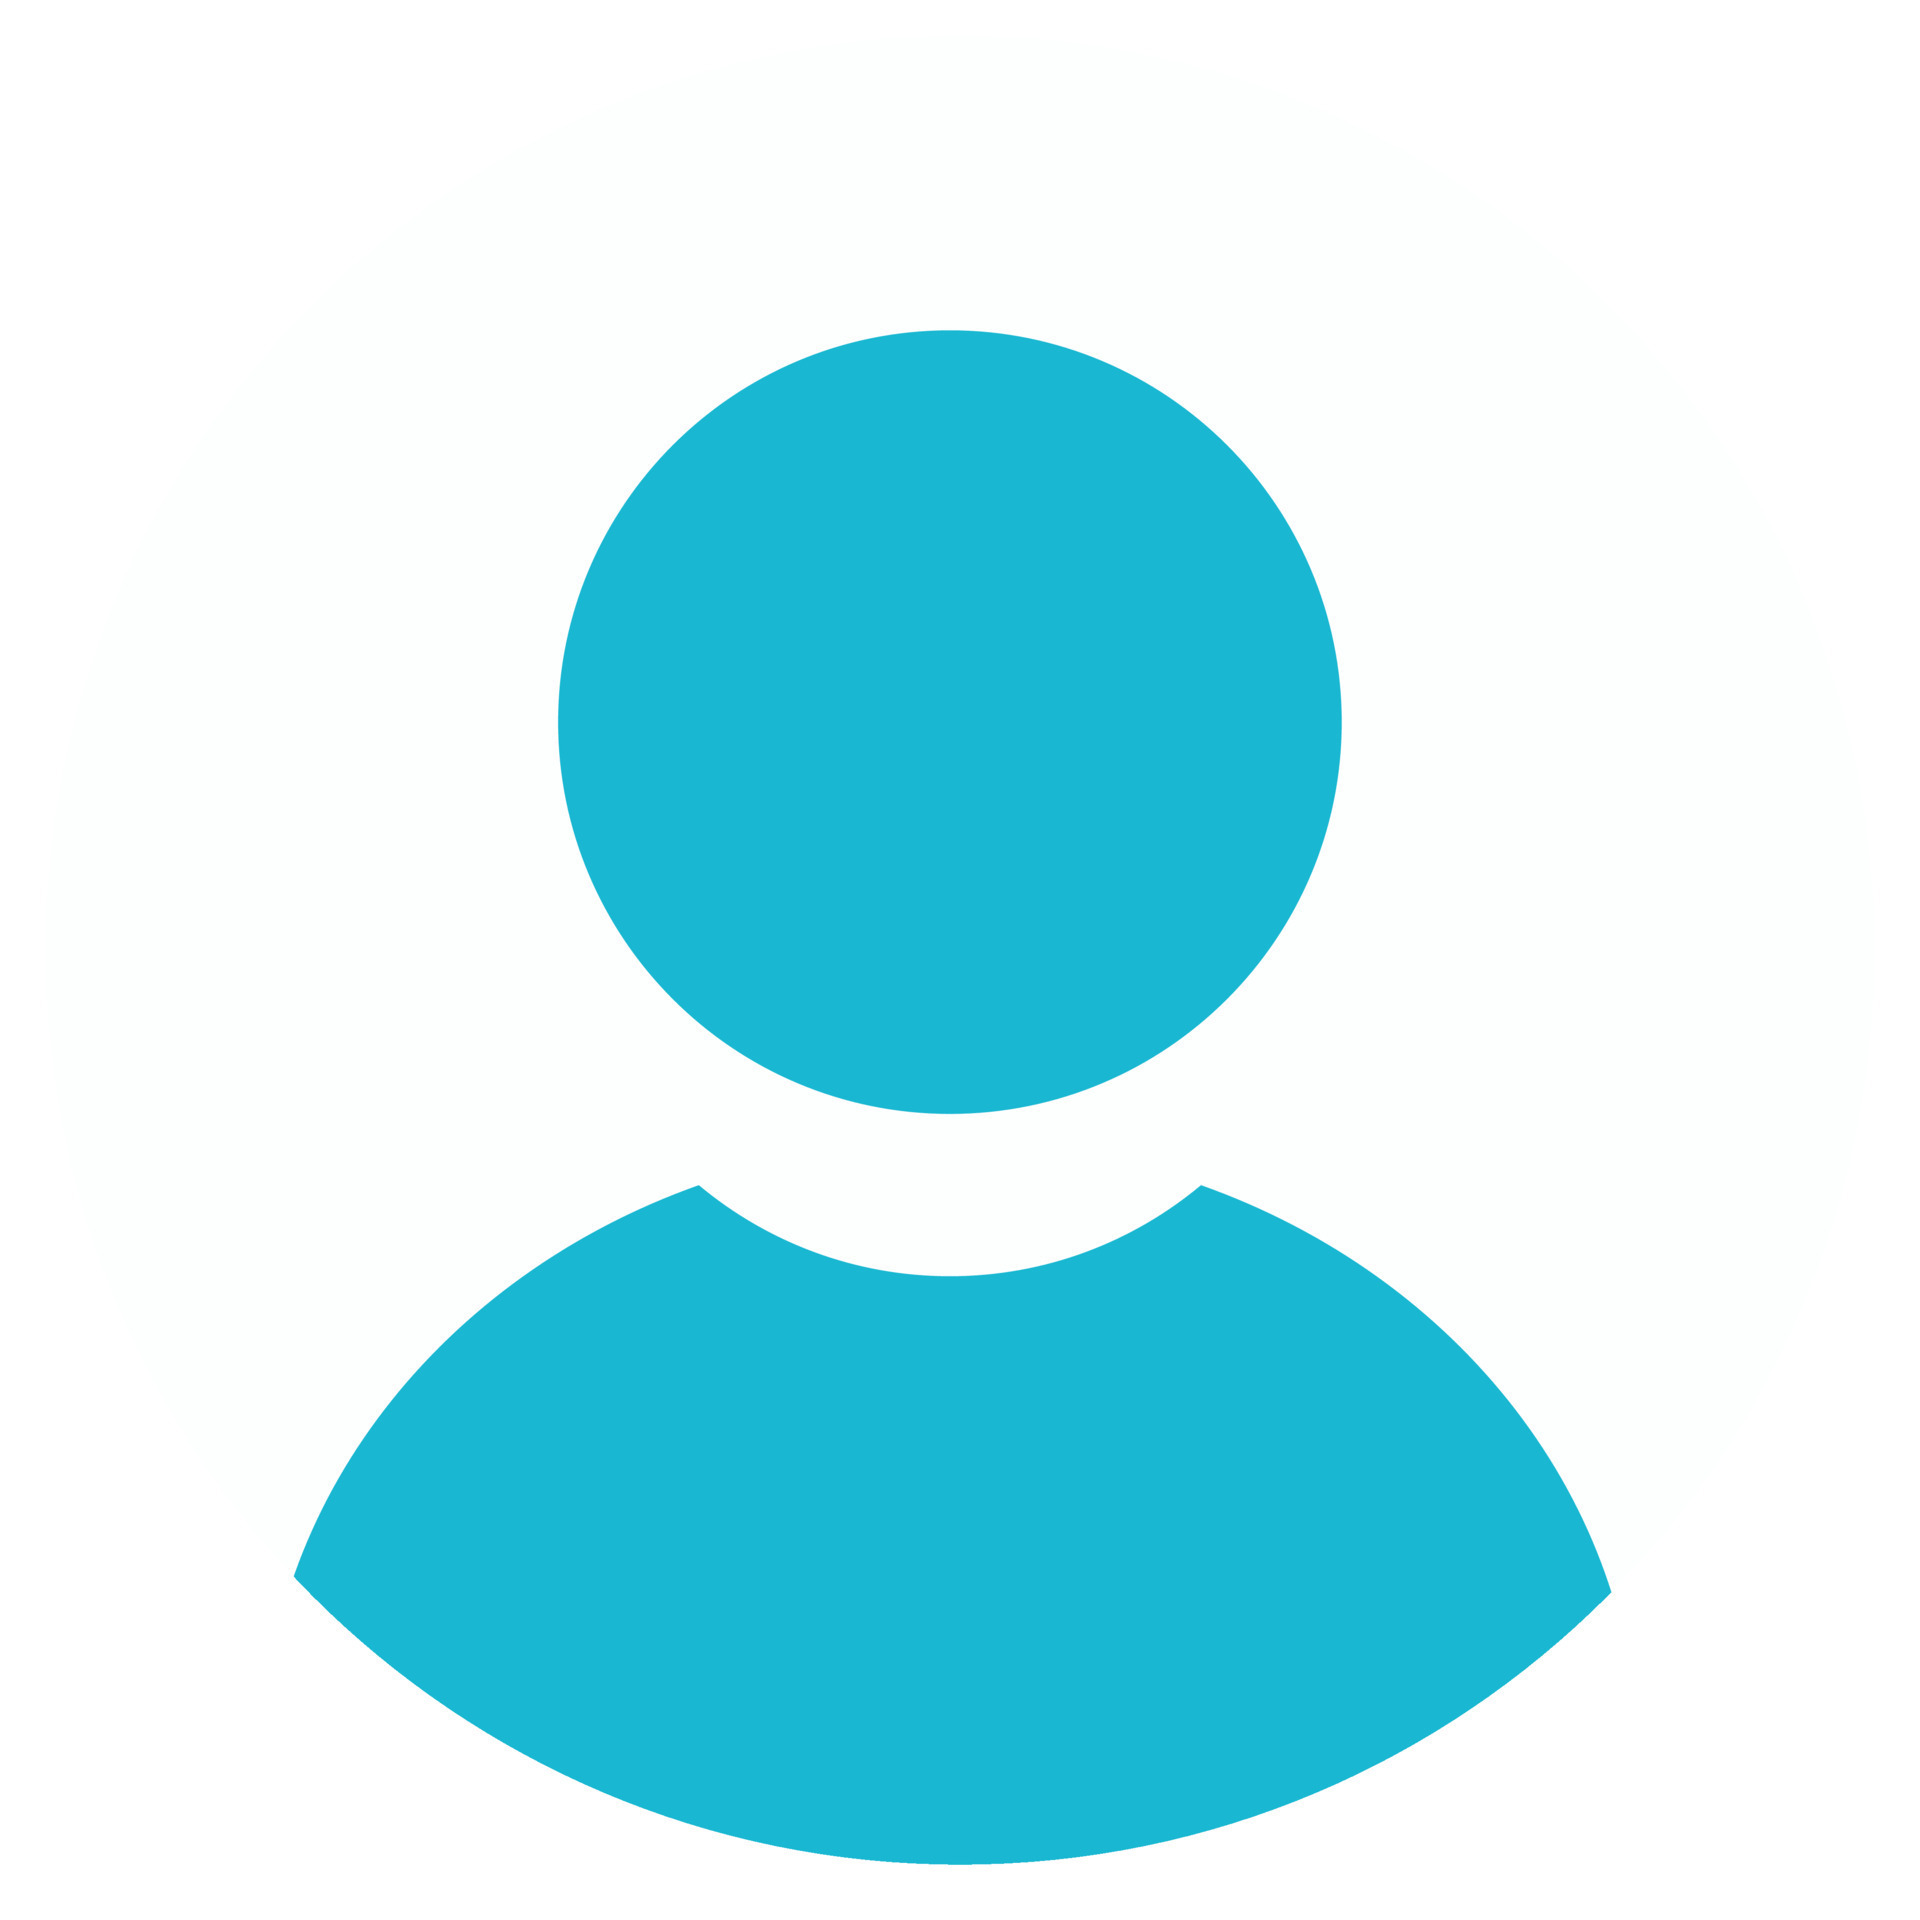
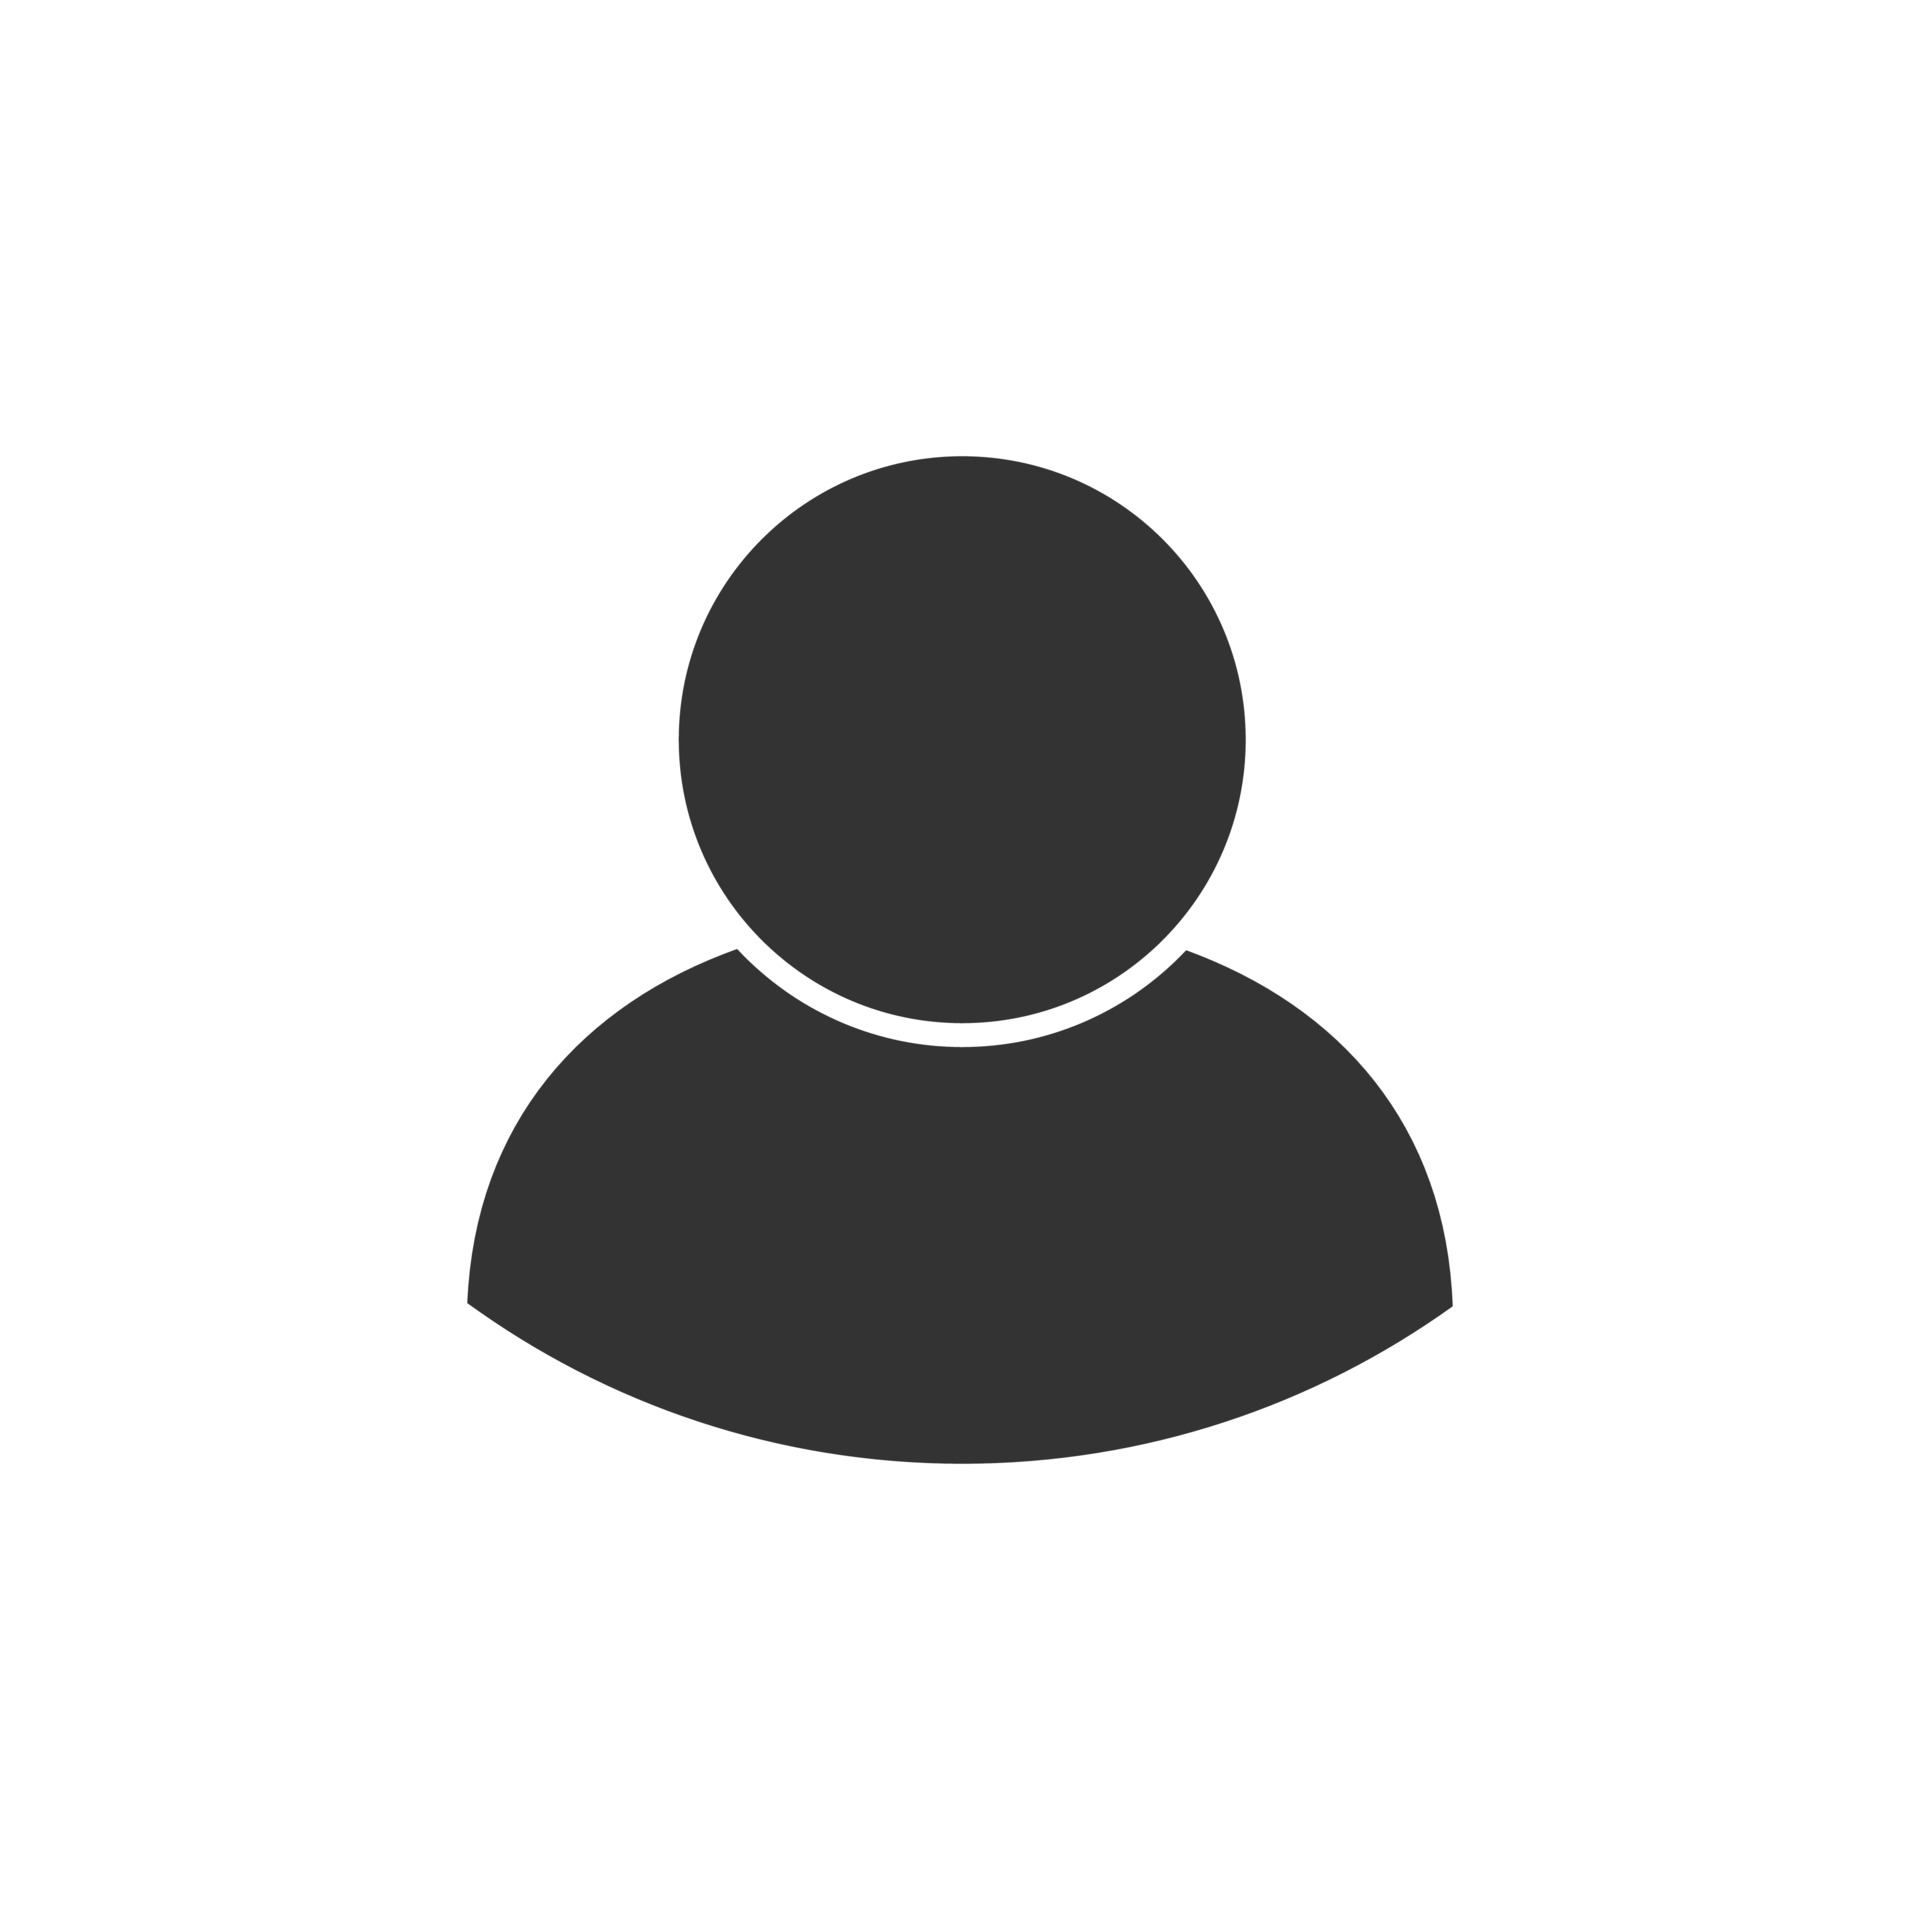
updated default profile image and deleted unnecessary code here and there

diff --git a/backend/src/controller/FeedbackController.ts b/backend/src/controller/FeedbackController.ts
@@ -18,8 +18,6 @@ export const submitFeedback:RequestHandler = async (req, res) => {
         }
 
 
-        // Additional checks can be made here,
-
         const feedback = {
             givenBy: user.userId,  // or any other user identifier included in the token
             // reviewer : req.body.reviewer,
@@ -51,82 +49,12 @@ export const getPremiumUpgradeReviews: RequestHandler = async (req, res) => {
         const reviews = await PlatformFeedback.find({ category: 'Premium Upgrade' })
             .populate('givenBy'); // populate the givenBy field with the entire Account object
             console.log('reviewes' + reviews)
-        // const transformedReviews = reviews.map(review => ({
-        //     _id: review._id,
-        //     title: review.title,
-        //     rating: review.rating,
-        //     content: review.content,
-        //     category: review.category,
-        //     givenBy: {
-        //         _id: review.givenBy._id,
-        //         name: `${review.givenBy.firstName} ${review.givenBy.lastName}`, // Combine firstName and lastName
-        //         email: review.givenBy.email,
-        //         profileImageUrl: review.givenBy.profileImageUrl,
-        //         location: review.givenBy.location,
-        //         country: review.givenBy.country,
-        //         postal: review.givenBy.postal,
-        //         // Include other fields you need from the givenBy object
-        //     },
-        //     createdAt: review.createdAt,
-        //     updatedAt: review.updatedAt
-        // }));
         res.status(200).json(reviews);
     } catch (error) {
         console.error("Failed to fetch reviews:", error);
         res.status(500).json({ error: "Internal server error", message: "Could not fetch reviews." });
     }
 };
-
-// // find review based on jobId and reviewer
-// export const findExistingReview: RequestHandler = async(req, res) => {
-//     const user = (req as any).user;
-//     const { jobId } = req.params;
-//     console.log("job id for finding request: ", jobId)
-//     const userId = user.userId; // Assuming you're using some authentication middleware
-//
-//     try{
-//         const review = await Review.findOne({ job: jobId, reviewer: userId });
-//         if (review) {
-//             return res.json({ success: true, review: review });
-//          } else {
-//            return res.json({ success: false });
-//         }
-//     } catch (error) {
-//         res.status(500).json({ success: false, message: "Server error", error });
-//     }
-// }
-
-
-
-// delete review
-// export const deleteReview: RequestHandler = async (req, res) => {
-//     try {
-//         const user = (req as any).user;
-//         if (!user) {
-//             return res.status(403).json({error: "Authorization failed."});
-//         }
-//
-//         const { reviewId } = req.params;
-//
-//         const review = await Review.findById(reviewId);
-//         if (!review) {
-//             return res.status(404).json({error: "Review not found."});
-//         }
-//
-//         // Ensure that the current user is the reviewer
-//         if (review.reviewer.toString() !== user.userId) {
-//             return res.status(403).json({error: "Unauthorized to delete this review."});
-//         }
-//
-//
-//
-//
-//         res.status(200).json({message: "Review deleted successfully."});
-//     } catch (error) {
-//         console.error("Failed to delete review:", error);
-//         res.status(500).json({error: "Internal server error", message: "Could not delete review."});
-//     }
-// };
 
 
 

diff --git a/backend/src/controller/ReviewController.ts b/backend/src/controller/ReviewController.ts
@@ -1,9 +1,4 @@
-import jwt from 'jsonwebtoken';
-import Account from "../models/account";
 import { RequestHandler } from "express";
-import * as dotenv from 'dotenv'
-import bcrypt from 'bcrypt';
-import { ERRORS } from "../helpers/authHelper";
 import Review from "../models/review";
 import Notification from "../models/notification"
 import Job from "../models/job";
@@ -12,7 +7,6 @@ import mongoose from "mongoose";
 //
 //
 
-// todo (i think its done): sanity check: (add after job and request controllers are done)
 // the reviewer has to have used the service (or is the provider)
 // no other reviews has existed for this job
 export const submitReview: RequestHandler = async (req, res) => {
@@ -278,35 +272,6 @@ export const getAllReviewsByOffering: RequestHandler = async (req, res) => {
 
             return res.json({ review: reviews });
         }
-        // else {
-        //     return res.json({ success: false });
-        // }
-
-        // Fetch profile images
-        // const profileImagePromises = reviews.map(async (review) => {
-        //     const reviewer = review.reviewer as mongoose.Document & { profileImageId: string };
-        //     let profileImageUrl = null;
-        //
-        //     if (reviewer && reviewer.profileImageId) {
-        //         const profileImageResponse = await Account.findById(reviewer._id).select('profileImageUrl');
-        //         profileImageUrl = profileImageResponse?.profileImageUrl || null;
-        //     }
-        //
-        //     return {
-        //         ...review.toObject(),
-        //         reviewer: {
-        //             ...reviewer.toObject(),
-        //             profileImageUrl: profileImageUrl,
-        //         },
-        //     };
-        // });
-
-        // const reviewsWithProfileImages = await Promise.all(profileImagePromises);
-        //
-        // if (reviewsWithProfileImages) {
-        //     return res.json({ review: reviewsWithProfileImages });
-        // }
-
 
     } catch (error) {
         res.status(500).json({ success: false, message: "Server error", error });

diff --git a/backend/src/controller/TimeSlotController.ts b/backend/src/controller/TimeSlotController.ts
@@ -1,7 +1,7 @@
-import { RequestHandler } from 'express';
+import {RequestHandler} from 'express';
 import moment from 'moment';
-import Timeslot, { ITimeslot } from '../models/timeslot';
-import mongoose, { ClientSession, Types } from "mongoose";
+import Timeslot, {ITimeslot} from '../models/timeslot';
+import mongoose, {ClientSession, Types} from "mongoose";
 
 // Custom error class for Timeslot-related errors
 class TimeslotError extends Error {
@@ -794,8 +794,7 @@ export async function cancelTimeslotDirect(timeslotId: String | Types.ObjectId) 
         timeslot.requestId = undefined;
         timeslot.jobId = undefined;
 
-        const updatedTimeslot = await timeslot.save();
-        return updatedTimeslot;
+        return await timeslot.save();
     } catch (error) {
         console.error("Failed to cancel timeslot:", error);
         throw error;

diff --git a/frontend/src/components/tableComponents/GenericTable.tsx b/frontend/src/components/tableComponents/GenericTable.tsx
@@ -1,4 +1,4 @@
-import React, { useState } from 'react';
+import React from 'react';
 import {
     Table,
     TableBody,
@@ -6,9 +6,7 @@ import {
     TableContainer,
     TableHead,
     TableRow,
-    Paper,
     TablePagination,
-    Container,
     Tooltip, IconButton
 } from '@mui/material';
 import GenericTableRow from "./GenericTableRow";
@@ -55,12 +53,6 @@ function GenericTable({data, count, page, setPage, rowsPerPage, setRowsPerPage, 
         setRowsPerPage(parseInt(event.target.value, 10));
         setPage(0); // Reset page to zero after row change
     };
-
-    const handleToggleMediaCard = (req: Item | null) => {
-        setSelectedItem(req);
-        setShowMediaCard(req !== null);
-    };
-
 
 
     return (

diff --git a/backend/src/controller/ServiceConroller.ts b/backend/src/controller/ServiceConroller.ts
@@ -8,7 +8,7 @@ import review from '../models/review';
 import job from '../models/job';
 
 
-export const addService = async (req: Request, res: Response, next: NextFunction) => {
+export const addService = async (req: Request, res: Response) => {
     try {
         const userId = (req as any).user.userId;
         console.log("User id", userId);
@@ -85,7 +85,7 @@ export const addService = async (req: Request, res: Response, next: NextFunction
 }
 
 
-export const editService = async (req: Request, res: Response, next: NextFunction) => {
+export const editService = async (req: Request, res: Response) => {
     try {
         const userId = (req as any).user.userId;
         const serviceId = req.params.id;

diff --git a/backend/src/controller/RequestController.ts b/backend/src/controller/RequestController.ts
@@ -306,7 +306,7 @@ export const handleChangeTimeslot: RequestHandler = async (req, res, next) => {
 
     try {
         // book the new timeslot
-        const hi = await bookTimeslot(req, res, next);
+        const bookedTimeslot = await bookTimeslot(req, res, next);
 
         // update the request status to pending again
         const updatedRequest = await ServiceRequest.findByIdAndUpdate(requestId, { requestStatus: RequestStatus.pending }, { new: true, upsert: true, strict: true });
